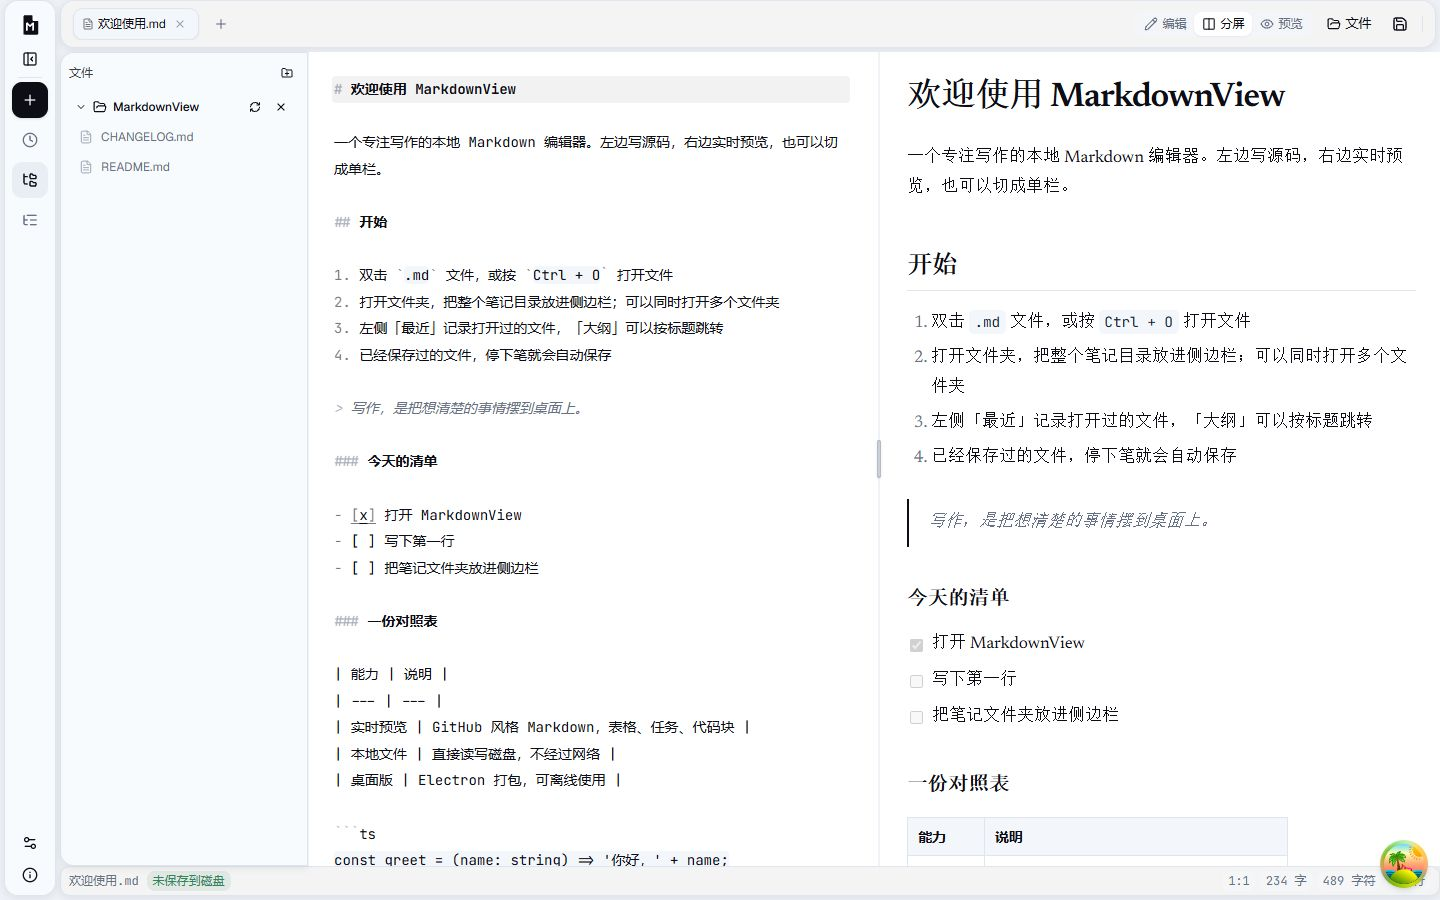
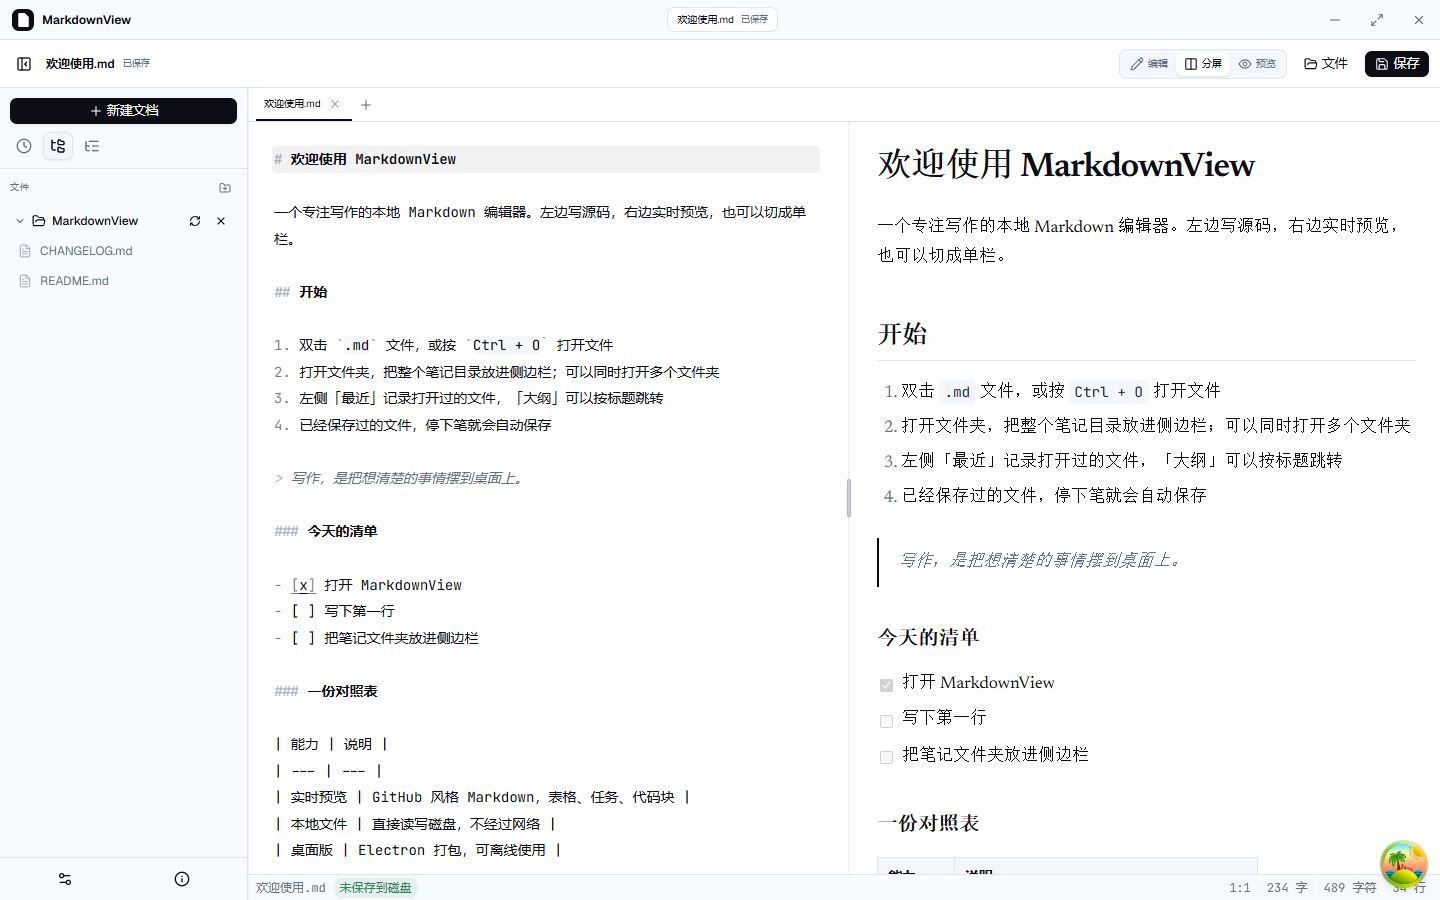
chore: release 1.3.0

diff --git a/README.md b/README.md
@@ -1,54 +1,119 @@
 # MarkdownView
 
-一个专注写作、离线可用的本地 Markdown 编辑器。左侧写源码，右侧实时预览，笔记直接读写本地磁盘，不经过网络。
+**轻到 6 MB，实时预览快到像在纸上落笔。**
 
-**下载安装包**：[GitHub Releases](https://github.com/Eveerme/MarkdownView/releases/latest) · Windows 10/11 x64
+MarkdownView 是一个为长时间写作而生的本地 Markdown 编辑器：左边写源码，右边即时预览，所有文件只留在你的电脑里。
 
-![MarkdownView 界面：左侧导航轨与可拉伸侧栏，中间 Markdown 源码，右侧实时预览](docs/screenshot.png)
+[下载 Windows 安装包](https://github.com/Eveerme/MarkdownView/releases/latest) · Windows 10/11 x64 · 安装包约 6 MB · 无需登录
 
-## 功能特性
+![MarkdownView 主界面：自定义标题栏、可拉伸侧栏、Markdown 源码与实时预览](docs/screenshot.png)
 
-- **现代化工作区**：单顶部命令栏 + 左侧导航轨，纯白冷灰配色，统一的圆角、间距、边框与轻阴影；侧栏可拖拽调整宽度。
-- **三种视图**：编辑、分屏、预览随时切换，切换时回到原来的阅读位置；分屏比例可拖动调整并记住上次的位置，双击分隔条恢复 50%。
-- **多文档标签页**：常驻标签栏，同一窗口保留多个已打开文档，切换不丢未保存内容，也不丢各自的阅读位置；`Ctrl+Tab` / `Ctrl+Shift+Tab` 切换、`Ctrl+W` 关闭，关闭前会确认。
-- **专注写作**：专注模式淡化非当前段落，打字机模式让光标行始终停在编辑区中央；均可在设置中开关。
-- **YAML 元信息**：文档开头的 `---` 区块在预览中折叠为元信息面板，正文不再显示原始 YAML；导出 HTML 也会带上它，源码仍是唯一事实来源。
-- **公式与图表**：支持 KaTeX 数学公式与 Mermaid 图表；Mermaid 按需加载、严格安全级别渲染，导出时转为 SVG。
-- **自动更新**：关于面板可检查、下载并安装更新；请求中、成功和失败都有弹窗反馈，下载显示进度，安装完成后自动重新打开应用。更新清单为静态文件，不消耗 GitHub API 额度，每 6 小时检查一次并合并重复请求。
-- **同步滚动**：分屏时两侧按源码行对齐滚动，一边预览一边改，位置始终跟得上；也可以在设置里关掉。
-- **预览定位源码**：在分屏里点击预览中的任意段落、标题或列表，光标直接跳到对应的源码行。
-- **Markdown 源码编辑**：CodeMirror 6 提供 Markdown 语法高亮、自动换行和当前行提示，单栏排版更适合写作；行号默认关闭，需要时在设置里打开。
-- **实时预览**：支持 GitHub Flavored Markdown（GFM），包括表格、任务列表、删除线、围栏代码块与代码高亮。
-- **设置面板**：左侧导航轨左下角的设置入口或 `Ctrl + ,` 打开，可调主题、源码/正文字号、编辑与预览共用的正文宽度、自动换行、行号、同步滚动、自动保存和最近文件数量，偏好保存在本机并立即生效。
-- **本地文件**：打开单个 `.md` / `.markdown` 文件，或同时打开多个笔记文件夹，在文件树中浏览。
-- **本地图片**：预览按笔记所在目录加载相对路径图片；把图片粘贴或拖入编辑器，会自动存到笔记旁的 `assets/` 并插入相对链接。
-- **文件树**：按真实目录层级展示 Markdown 文件，文件夹可折叠；右键文件或文件夹可直接在 Windows 资源管理器中打开所在位置；工作区里的多个根目录会一起保留，重启后自动恢复。
-- **相对链接跳转**：点击预览里的 `[其他笔记](note.md)` 或 `[章节](note.md#标题)` 会在应用内打开目标文件，并滚动到对应标题。
-- **目录大纲**：侧边栏「大纲」实时列出当前文档的标题，点击即可在编辑器和预览之间定位。
-- **双击打开**：安装包会注册 `.md` / `.markdown` 文件关联，双击文件即可在应用内打开，并自动把侧栏切换到「大纲」；应用已运行时再次打开文件会复用当前窗口。
-- **最近打开**：侧边栏记录最近打开的 Markdown 文件（默认显示 10 个，可在设置中调整到 50 个），显示打开时间，可直接从历史记录回到文件，右键可打开所在位置，也可以一键清空。
-- **自动保存**：已经保存到磁盘的文件，停止输入约 1 秒后自动写回；新文档在第一次保存时选择位置。不需要时可在设置里关闭。
-- **避免误丢内容**：新建、打开文件或关闭窗口前，如果存在未保存修改，会先弹出确认。
-- **导出分享**：把当前文档导出为独立的 HTML；本地图片会内嵌为 data URL，换一台电脑也能直接查看。
-- **主题**：纯白（默认）、暖纸、羊皮纸、松林、墨夜、午夜蓝六种配色，也可以跟随系统；在设置面板的「外观」中选择，选项带色点，编辑器、预览与导出共用同一套配色变量。
-- **写作状态**：状态栏实时显示光标行列号、选中字符数（英文、标点、空格都计入）、全文词数、字符数、行数和保存状态。
-- **记住窗口**：桌面版关闭时保存窗口大小、位置和最大化状态，下次打开回到原处；显示器拔掉后会自动回到可见区域。
-- **关于面板**：左侧导航轨左下角的“关于”入口显示版本号、Tauri / WebView / 平台信息，以及 GitHub 仓库、最新版本和问题反馈链接。
-- **纯本地运行**：无账号、无云端、无遥测；文件访问通过受限的 Tauri 命令完成。
+## 为什么选择 MarkdownView
+
+### 打开就写，不打断思路
+
+单窗口完成源码、预览和分屏写作。切换视图会回到原来的阅读位置，新建文档直接进入编辑模式，标签页始终保留在顶部。
+
+### 文件真正属于你
+
+笔记就是磁盘上的 `.md` 文件。没有导入导出，没有私有格式，也没有后台服务。工作区、最近文件和偏好只保存在本机。
+
+### 轻，但不简陋
+
+安装包约 6 MB，使用系统 WebView2，不内嵌一整套浏览器。启动快、占用低，同时保留完整 Markdown 能力。
+
+### 为长时间写作准备
+
+专注模式、打字机模式、可调正文宽度、源码与预览同步滚动、目录大纲和实时字数统计，都在同一套界面里。
+
+### 一套连续的现代工作台
+
+自定义标题栏、全高侧栏、下划线文档标签和贴边内容区组成一个连续工作面。侧栏可以拖拽调宽，默认纯白冷灰配色，也可以切换暖纸、松林、墨夜等主题。
+
+### 更新不打扰
+
+静态更新清单不消耗 GitHub API 额度。检查、下载、安装都有明确反馈，下载显示进度，安装完成后自动重新打开应用。
+
+## 界面
+
+### 查找与替换
+
+`Ctrl + F` 打开查找，`Ctrl + H` 展开替换。面板可以拖动到任意位置，双击标题栏复位，底部滑块可在 55%–100% 之间调整透明度；位置和透明度会记住。
+
+![MarkdownView 查找替换面板：悬浮卡片、匹配数量、替换操作](docs/search.png)
+
+## 核心功能
+
+### 写作体验
+
+- 编辑、分屏、预览三种视图；切换时保留阅读位置
+- 分屏比例可拖拽，双击分隔条恢复 50%
+- 专注模式淡化非当前段落，打字机模式让光标行停在编辑区中央
+- 源码/正文字号、正文宽度、自动换行、行号均可调
+- 常驻多标签页，切换不丢未保存内容，也不丢各自的阅读位置
+- 新建文档默认进入编辑模式
+
+### 文件与工作区
+
+- 打开单个 `.md` / `.markdown` 文件，或同时打开多个笔记文件夹
+- 侧栏支持最近、文件、大纲三种视图，宽度可拖拽并记住
+- 文件树按真实目录展示，右键可在资源管理器中打开
+- 最近文件、已打开文件夹和工作区重启后自动恢复
+- 自动保存，停止输入约 1 秒写回磁盘
+- 新建、打开文件或关闭窗口前，如有未保存修改会先确认
+
+### Markdown
+
+- GitHub Flavored Markdown：表格、任务列表、删除线、围栏代码块、代码高亮
+- 编辑中的单个换行在预览和导出 HTML 中保持为换行
+- KaTeX 数学公式、Mermaid 图表
+- YAML 元信息折叠为元信息面板，正文不显示原始 YAML
+- 点击预览中的段落、标题或列表，光标跳到对应源码行
+- 相对链接可直接打开其他笔记，并滚动到 `#标题`
+- 粘贴或拖入图片自动保存到笔记旁的 `assets/`，插入相对链接
+
+### 搜索、导出与更新
+
+- 可拖动、可调透明度的查找替换面板，支持大小写、正则和全词匹配
+- 导出独立 HTML，本地图片内嵌为 data URL
+- 关于面板显示版本、Tauri / WebView / 平台信息
+- 更新检查有请求中、成功、失败提示；安装包 SHA-256 校验后才会启动
+
+## 快捷键
+
+| 快捷键                   | 功能           |
+| ------------------------ | -------------- |
+| `Ctrl/Cmd + N`           | 新建文档       |
+| `Ctrl/Cmd + O`           | 打开文件       |
+| `Ctrl/Cmd + S`           | 保存           |
+| `Ctrl/Cmd + Shift + S`   | 另存为         |
+| `Ctrl/Cmd + F`           | 查找           |
+| `Ctrl/Cmd + H`           | 查找与替换     |
+| `Ctrl/Cmd + Tab`         | 下一个标签页   |
+| `Ctrl/Cmd + Shift + Tab` | 上一个标签页   |
+| `Ctrl/Cmd + W`           | 关闭当前标签页 |
+| `Ctrl/Cmd + ,`           | 打开设置       |
+
+## 安装
+
+从 [Releases](https://github.com/Eveerme/MarkdownView/releases/latest) 下载最新的 Windows 安装包并运行。
+
+> 安装包尚未进行代码签名，Windows SmartScreen 可能提示“未知发布者”。选择“更多信息 → 仍要运行”即可。
+
+安装时会注册 `.md` / `.markdown` 文件关联，双击文件即可在应用内打开。如果系统里已有其他默认 Markdown 应用，可能需要在 Windows 设置中手动切换。
 
 ## 技术栈
 
-| 层     | 技术                                                                     |
-| ------ | ------------------------------------------------------------------------ |
-| 前端   | React 19、TanStack Router、TanStack Query、Tailwind CSS 4                |
-| UI     | shadcn/ui（Base UI）、lucide-react                                       |
-| 编辑器 | CodeMirror 6（`@uiw/react-codemirror`）                                  |
-| 预览   | react-markdown、remark-gfm、remark-breaks、rehype-slug、rehype-highlight |
-| 大纲   | remark-parse、github-slugger                                             |
-| 桌面端 | Tauri 2（Rust）、系统 WebView2、NSIS                                     |
-| 工具链 | Vite+（`vp`）、TypeScript、Vitest、Playwright、Knip、Ultracite           |
+| 层     | 技术                                                                   |
+| ------ | ---------------------------------------------------------------------- |
+| 前端   | React 19、TanStack Router、TanStack Query、Tailwind CSS 4              |
+| UI     | shadcn/ui（Base UI）、lucide-react                                     |
+| 编辑器 | CodeMirror 6（`@uiw/react-codemirror`、`@codemirror/search`）          |
+| 预览   | react-markdown、remark-gfm、remark-breaks、remark-math、KaTeX、Mermaid |
+| 桌面端 | Tauri 2（Rust）、系统 WebView2、NSIS                                   |
+| 工具链 | Vite+（`vp`）、TypeScript、Vitest、Playwright、Knip、Ultracite         |
 
-## 快速开始
+## 开发
 
 ### 环境要求
 
@@ -58,9 +123,7 @@
 - Rust 稳定版（`rustup`）与 Visual Studio C++ 构建工具
 - Windows 10/11 x64（当前安装包验证平台；WebView2 由安装包引导安装）
 
-> 版本由仓库根目录 `package.json` 的 `engines` 字段固定；Vite+ 也可以帮助管理运行时和包管理器。
-
-### 安装与开发
+### 本地运行
 
 ```sh
 git clone https://github.com/Eveerme/MarkdownView.git
@@ -71,16 +134,7 @@ vp run dev
 
 `vp run dev` 会同时启动 Web 开发服务器（<http://localhost:5173>）和 Tauri 窗口。修改 Rust 代码后 Tauri 会自动重建。
 
-### 构建
-
-```sh
-vp run build           # 构建 Web 渲染层
-vp run package:desktop # 构建 Web 并生成 Windows 安装包
-```
-
-安装包输出到 `apps/desktop/src-tauri/target/release/bundle/nsis/`，Windows x64 安装包约 **6 MB**（旧 Electron 版约 107 MB）。内核使用系统 WebView2，安装包不内嵌浏览器运行时（安装时联网引导安装）。
-
-## 常用命令
+### 常用命令
 
 | 命令                     | 说明                                                 |
 | ------------------------ | ---------------------------------------------------- |
@@ -94,19 +148,7 @@ vp run package:desktop # 构建 Web 并生成 Windows 安装包
 
 端到端测试驱动已安装的 Google Chrome（`channel: "chrome"`），不需要额外下载 Playwright 浏览器。
 
-## 快捷键
-
-| 快捷键                   | 功能           |
-| ------------------------ | -------------- |
-| `Ctrl/Cmd + N`           | 新建文档       |
-| `Ctrl/Cmd + O`           | 打开文件       |
-| `Ctrl/Cmd + S`           | 保存           |
-| `Ctrl/Cmd + Shift + S`   | 另存为         |
-| `Ctrl/Cmd + Tab`         | 下一个标签页   |
-| `Ctrl/Cmd + Shift + Tab` | 上一个标签页   |
-| `Ctrl/Cmd + W`           | 关闭当前标签页 |
-
-## 项目结构
+### 项目结构
 
 ```text
 .
@@ -127,29 +169,41 @@ vp run package:desktop # 构建 Web 并生成 Windows 安装包
 
 ## 实现说明
 
-- **本地优先**：阅读、编辑、自动保存都直接操作磁盘文件；应用不依赖后端服务。
-- **受限文件访问**：Rust 侧维护已打开文件/文件夹白名单，只处理用户通过系统对话框授权的路径，并校验相对链接与图片路径 containment。
-- **输入校验**：桌面命令返回值全部经过 Zod 校验；WebView 通过 CSP 限制脚本、样式与图片来源。
-- **文件夹扫描**：递归查找 `.md` / `.markdown` 文件，最多 16 层、5000 个文件，忽略隐藏目录以及 `node_modules`、`dist`、`release`；超出上限时会在文件夹标题下提示。
-- **工作区**：同时打开的根目录保存在应用数据目录（`folders.json`），启动时自动恢复，已不存在的目录会被跳过；首次启动会尝试迁移旧版 Electron 的记录。
-- **最近打开**：记录保存在应用数据目录的 `recent-files.json`，包含打开时间；历史最多保留 50 条，侧栏按设置显示（默认 10 条）。只记录通过应用打开或保存过的 Markdown 文件，文件被删除后会自动从列表移除。
-- **相对链接**：只解析当前文件所在目录及其子目录、以及已打开工作区中的 Markdown 文件；`http/https/mailto` 等外部链接仍交给系统浏览器。目标文件带有 `#标题` 时，加载后会滚动到对应标题。
-- **本地图片**：预览通过 `mdview://` 协议读取图片，只允许已打开工作区内、允许的图片扩展名，并用 `realpath` 校验真实路径，防止目录穿越；单张图片上限 25 MB。粘贴或拖入的图片保存为 `assets/image-<时间>-<随机>.png` 一类文件名。
-- **目录大纲**：使用与预览相同的标题锚点规则生成，支持中文标题和重复标题；编辑模式下点击大纲会定位到源码行。
-- **导出**：HTML 导出把 Markdown 重新渲染成一份自含样式的文档，本地图片转为 data URL；公式样式与 Mermaid 渲染后的 SVG 一并内嵌。当前不提供 PDF 导出。
-- **更新清单**：发布工作流在打 `v*` 标签时生成 `latest.json` 并发布到 GitHub Pages，包含版本号、校验和与安装包地址；主进程校验 SHA-256 后才打开安装程序，签名前不做静默安装。
-- **Web 降级**：浏览器中打开时自动隐藏文件操作和侧边栏，仅保留编辑与预览；完整文件读写需要桌面版。
-- **外部链接**：预览中的外部链接交由系统默认浏览器打开，不在应用窗口内导航。
+<details>
+<summary>本地优先与文件访问</summary>
+
+阅读、编辑、自动保存都直接操作磁盘文件；应用不依赖后端服务。Rust 侧维护已打开文件/文件夹白名单，只处理用户通过系统对话框授权的路径，并校验相对链接与图片路径 containment。
+
+桌面命令返回值全部经过 Zod 校验；WebView 通过 CSP 限制脚本、样式与图片来源。文件夹扫描递归查找 `.md` / `.markdown`，最多 16 层、5000 个文件，忽略隐藏目录以及 `node_modules`、`dist`、`release`。
+
+</details>
+
+<details>
+<summary>工作区、最近文件与链接</summary>
+
+同时打开的根目录保存在应用数据目录（`folders.json`），启动时自动恢复，已不存在的目录会被跳过。最近打开记录保存在 `recent-files.json`，最多保留 50 条，侧栏按设置显示（默认 10 条）。
+
+相对链接只解析当前文件所在目录及其子目录、以及已打开工作区中的 Markdown 文件；`http/https/mailto` 等外部链接交给系统浏览器。目标带 `#标题` 时，加载后会滚动到对应标题。
+
+</details>
+
+<details>
+<summary>图片、导出与更新</summary>
+
+预览通过 `mdview://` 协议读取图片，只允许已打开工作区内、允许的图片扩展名，并用 `realpath` 校验真实路径，防止目录穿越；单张图片上限 25 MB。
+
+HTML 导出把 Markdown 重新渲染成自含样式的文档，本地图片转为 data URL；公式样式与 Mermaid SVG 一并内嵌。发布工作流在打 `v*` 标签时生成 `latest.json` 并发布到 GitHub Pages，主进程校验 SHA-256 后才打开安装程序。
+
+</details>
 
 ## 已知限制
 
 - 当前只验证了 Windows x64 安装包；macOS 与 Linux 的构建配置已存在，但未做发布验证。
-- 安装包未进行代码签名，Windows SmartScreen 可能提示“未知发布者”。选择“更多信息 → 仍要运行”即可。
-- 安装时会注册 `.md` / `.markdown` 文件关联；如果系统里已有其他默认 Markdown 应用，可能需要在 Windows 设置中手动把默认应用切换为 MarkdownView。
+- 安装包未进行代码签名，Windows SmartScreen 可能提示“未知发布者”。
 - 相对链接只支持 Markdown 文件；指向 PDF、图片等本地文件的链接暂不会用系统程序打开。
 - 以 `.` 开头的隐藏目录不会出现在文件树中。
 - 浏览器预览模式没有文件树和目录大纲，这两项功能在桌面版提供。
-- 暂不支持导出 Word 文档。
+- 暂不支持导出 Word 或 PDF。
 
 ## 参与开发
 
@@ -157,8 +211,8 @@ vp run package:desktop # 构建 Web 并生成 Windows 安装包
 2. 修改代码后运行 `vp run ready`，确保格式、Lint、类型、单元测试、端到端测试和构建全部通过。
 3. 提交 Pull Request。
 
-如果遇到问题或有功能建议，欢迎在 [Issues](https://github.com/Eveerme/MarkdownView/issues) 中反馈。
+遇到问题或有功能建议，欢迎在 [Issues](https://github.com/Eveerme/MarkdownView/issues) 中反馈。
 
 ## 致谢
 
-界面与交互参考了 Typora 一类专注写作工具的思路。感谢 Vite+、Electron、React、CodeMirror、react-markdown、shadcn/ui 等开源项目。
+界面与交互参考了 Typora、Branchline 一类专注写作与开发工具的现代工作台思路。感谢 Vite+、Tauri、Rust、React、CodeMirror、react-markdown、shadcn/ui 等开源项目。

diff --git a/CHANGELOG.md b/CHANGELOG.md
@@ -1,5 +1,29 @@
 # 更新日志
 
+## v1.3.0
+
+### 新增功能
+
+- 工作区升级为 Branchline 式扁平布局：40px 自定义标题栏、48px 工作区顶栏、全高侧栏、下划线文档标签和贴边状态栏。
+- 侧栏集中新建、最近、文件、大纲、设置和关于；宽度可拖拽调整，默认 248px。
+- 查找替换改为自定义悬浮面板：匹配数量、大小写/正则/全词匹配、替换与全部替换。
+- 搜索面板可拖动位置，双击标题栏复位；支持 55%–100% 透明度，位置和透明度会记住。
+- 桌面窗口改为无边框，最小化、最大化、关闭接入自定义标题栏。
+
+### 修复问题
+
+- 应用启动时强制关闭原生窗口装饰，避免自定义标题栏与系统标题栏重复叠加。
+
+### 优化改进
+
+- 编辑区与预览区贴边展开，只保留 1px 分栏线，状态栏与内容区右边对齐。
+- README 重写为产品介绍，更新主界面与查找替换截图。
+- 新增查找替换、面板拖动和透明度记忆的端到端测试。
+
+### 下载地址
+
+https://github.com/Eveerme/MarkdownView/releases/tag/v1.3.0
+
 ## v1.2.0
 
 ### 新增功能
